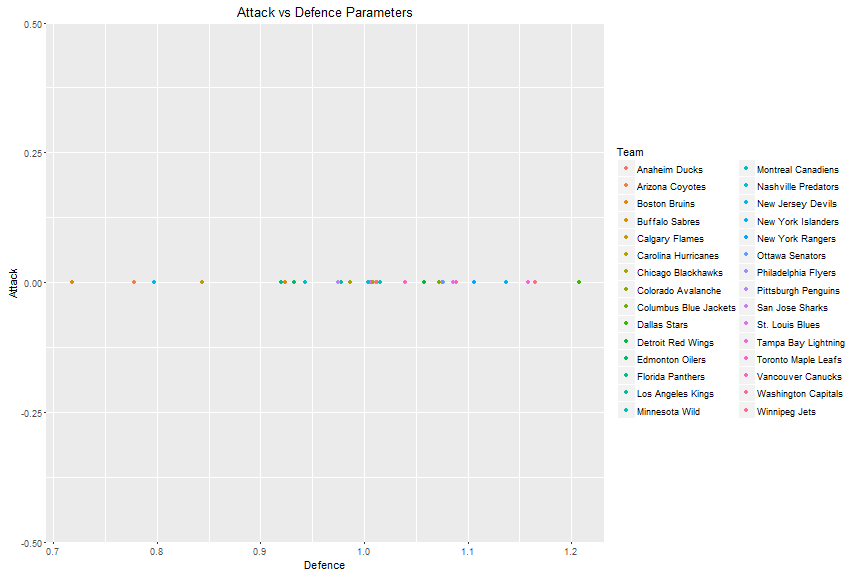
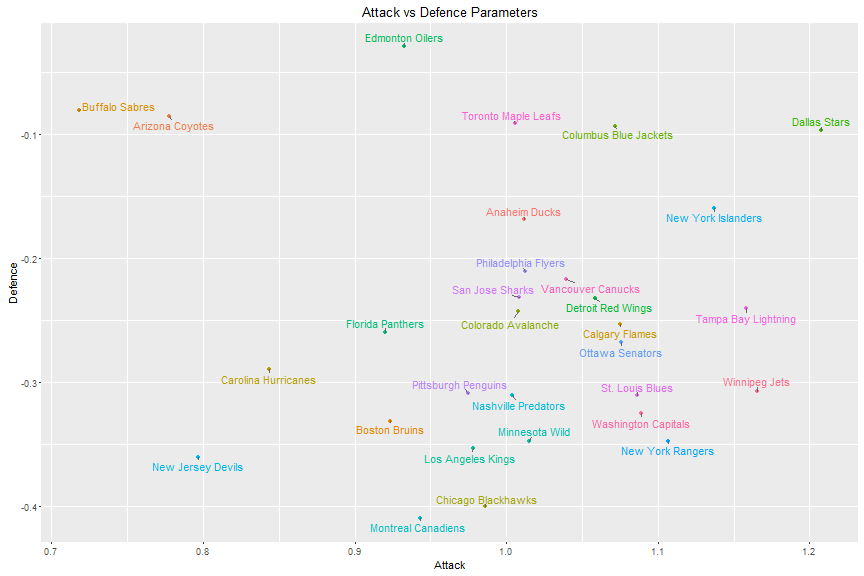
Fixed attack/defend plots

diff --git a/_posts/2016-08-05-dixon_coles_and_hockey_data.md b/_posts/2016-08-05-dixon_coles_and_hockey_data.md
@@ -18,8 +18,6 @@ tags: R hockey cleaning exploratory Dixon-Coles
 *Note: This is earlier work I did (last winter/spring) so some info may seem dated at time of posting. I've used data files current to then.*
  
 [Last entry]({{ site.baseurl }}/blog/2016-08-04/data_preparation.html) we did some data importing and cleaning of historical NHL data, from 2005 to present. This was in anticipation of performing simulation of games, by the Dixon-Coles method. Much of this entry is not my original work, I've used slightly modified versions of the code available from Jonas at the [opisthokonta.com](http://opisthokonta.net/?p=890) [blog](http://opisthokonta.net/?p=913). I've mixed his [optimized Dixon-Coles method](http://opisthokonta.net/?p=939) and the [time regression method](http://opisthokonta.net/?p=1013) which was a key part of Dixon and Coles' paper.
-
-<!--more-->
  
 First, Dixon and Coles provide a method to increase the number of low-goal scoring games. A keen eye would notice that the goals scored is a bit biased 'left' compared to the actual Poisson curve:
  
@@ -154,7 +152,7 @@ Use of this is to feed in the data into the `doDCPrediction` function, returning
  
 
  
-The full 10 seasons took 329 seconds, while even just one season took 71 seconds. We haven't even added in the promised time dependancy yet! WOW. Hopefully it's a good model.
+The full 10 seasons took 336 seconds, while even just one season took 70 seconds. We haven't even added in the promised time dependancy yet! WOW. Hopefully it's a good model.
  
 We'll plot the Attack and Defence parameters for each team to se if there's any correllation.
 ![plot of chunk attack_defence_corr_plot](/images/attack_defence_corr_plot-1.png)
@@ -283,7 +281,7 @@ Remaking those functions took a lot of space, but only a few lines changed. We m
  
 
  
-Running it again, we get 10 seasons taking 587 seconds, and one season 39 seconds. We could optimize that futher if we wanted (eg. drop data for weight of less than some amount), but fortunately we only have to run this once to start predicting all sorts of results.
+Running it again, we get 10 seasons taking 564 seconds, and one season 39 seconds. We could optimize that futher if we wanted (eg. drop data for weight of less than some amount), but fortunately we only have to run this once to start predicting all sorts of results.
  
 We'll plot the Attack and Defence parameters for each team to se if there's any correllation.
 ![plot of chunk xi_attack_defence_corr_plot](/images/xi_attack_defence_corr_plot-1.png)
@@ -296,38 +294,38 @@ kable(team_params)
 
 
 
-|Team                  |    Attack| Defence|
-|:---------------------|---------:|-------:|
-|Philadelphia Flyers   | 1.0121194|       0|
-|Vancouver Canucks     | 1.0392275|       0|
-|San Jose Sharks       | 1.0084094|       0|
-|Montreal Canadiens    | 0.9432757|       0|
-|Winnipeg Jets         | 1.1651391|       0|
-|Columbus Blue Jackets | 1.0720620|       0|
-|Chicago Blackhawks    | 0.9859894|       0|
-|Boston Bruins         | 0.9233369|       0|
-|Calgary Flames        | 1.0748234|       0|
-|Colorado Avalanche    | 1.0074923|       0|
-|Ottawa Senators       | 1.0758839|       0|
-|New Jersey Devils     | 0.7969081|       0|
-|Anaheim Ducks         | 1.0115607|       0|
-|New York Rangers      | 1.1065298|       0|
-|Florida Panthers      | 0.9198597|       0|
-|New York Islanders    | 1.1370036|       0|
-|Los Angeles Kings     | 0.9782324|       0|
-|Washington Capitals   | 1.0887270|       0|
-|Buffalo Sabres        | 0.7179103|       0|
-|Minnesota Wild        | 1.0152058|       0|
-|Dallas Stars          | 1.2076288|       0|
-|Carolina Hurricanes   | 0.8435388|       0|
-|Pittsburgh Penguins   | 0.9745149|       0|
-|Edmonton Oilers       | 0.9324842|       0|
-|Toronto Maple Leafs   | 1.0059094|       0|
-|St. Louis Blues       | 1.0860585|       0|
-|Detroit Red Wings     | 1.0583062|       0|
-|Nashville Predators   | 1.0038109|       0|
-|Tampa Bay Lightning   | 1.1583167|       0|
-|Arizona Coyotes       | 0.7776899|       0|
+|Team                  |    Attack|    Defence|
+|:---------------------|---------:|----------:|
+|Philadelphia Flyers   | 1.0121194| -0.2100311|
+|Vancouver Canucks     | 1.0392275| -0.2165386|
+|San Jose Sharks       | 1.0084094| -0.2313078|
+|Montreal Canadiens    | 0.9432757| -0.4092650|
+|Winnipeg Jets         | 1.1651391| -0.3067774|
+|Columbus Blue Jackets | 1.0720620| -0.0930428|
+|Chicago Blackhawks    | 0.9859894| -0.3999099|
+|Boston Bruins         | 0.9233369| -0.3308583|
+|Calgary Flames        | 1.0748234| -0.2527661|
+|Colorado Avalanche    | 1.0074923| -0.2423507|
+|Ottawa Senators       | 1.0758839| -0.2676480|
+|New Jersey Devils     | 0.7969081| -0.3597987|
+|Anaheim Ducks         | 1.0115607| -0.1684771|
+|New York Rangers      | 1.1065298| -0.3468837|
+|Florida Panthers      | 0.9198597| -0.2591662|
+|New York Islanders    | 1.1370036| -0.1595641|
+|Los Angeles Kings     | 0.9782324| -0.3529102|
+|Washington Capitals   | 1.0887270| -0.3249934|
+|Buffalo Sabres        | 0.7179103| -0.0802519|
+|Minnesota Wild        | 1.0152058| -0.3469008|
+|Dallas Stars          | 1.2076288| -0.0965829|
+|Carolina Hurricanes   | 0.8435388| -0.2891418|
+|Pittsburgh Penguins   | 0.9745149| -0.3085952|
+|Edmonton Oilers       | 0.9324842| -0.0290418|
+|Toronto Maple Leafs   | 1.0059094| -0.0907913|
+|St. Louis Blues       | 1.0860585| -0.3104953|
+|Detroit Red Wings     | 1.0583062| -0.2322874|
+|Nashville Predators   | 1.0038109| -0.3102897|
+|Tampa Bay Lightning   | 1.1583167| -0.2404457|
+|Arizona Coyotes       | 0.7776899| -0.0850163|
  
 There's another way of generating the teams strengths, and this is wicked fast. Again, this is based on opisthokonta and from Martin Eastwood and the [pena.lt/y](pena.lt/y blog) blog. This method is slightly lsess accurate, and doesn't do time dependance (yet) but is fast enough and simple enough to cut it. 
  
@@ -385,4 +383,4 @@ resAll <- doFastDC(mAll, nhl_all)
 tFast <- proc.time() - t
 {% endhighlight %}
  
-So, for all the data, that provides us with a fitting in 7 seconds, compared to 587 seconds for the above method. We'll continue to use this method for speed in later work as we predict results for some games!
+So, for all the data, that provides us with a fitting in 6 seconds, compared to 564 seconds for the above method. We'll continue to use this method for speed in later work as we predict results for some games!
